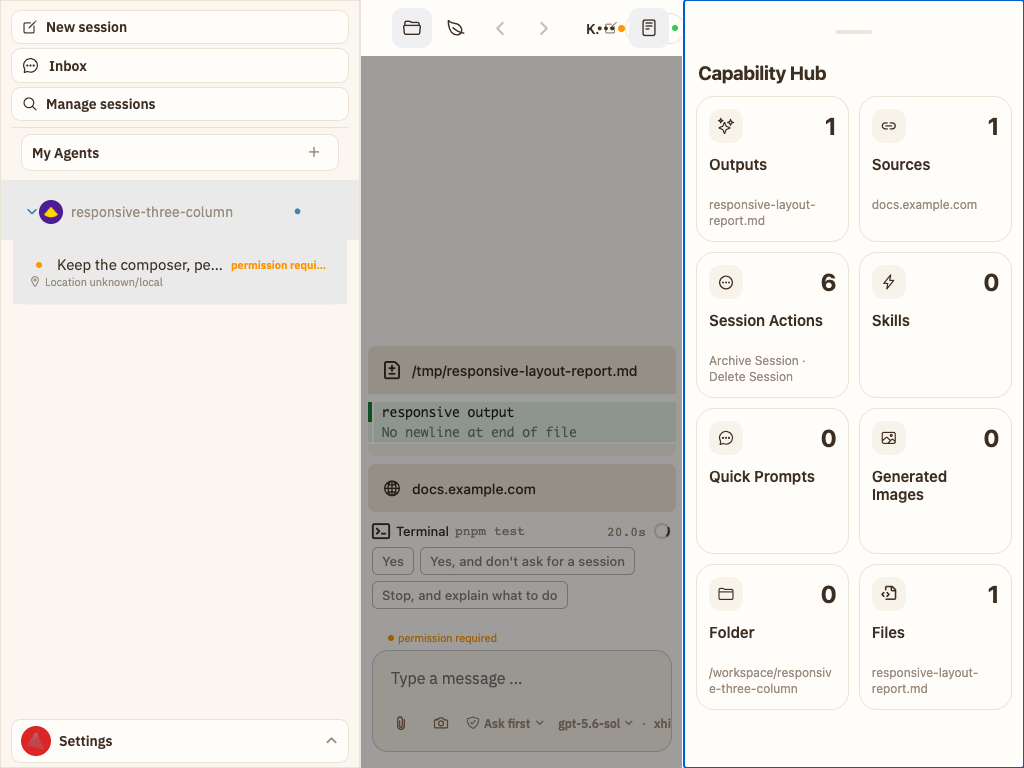
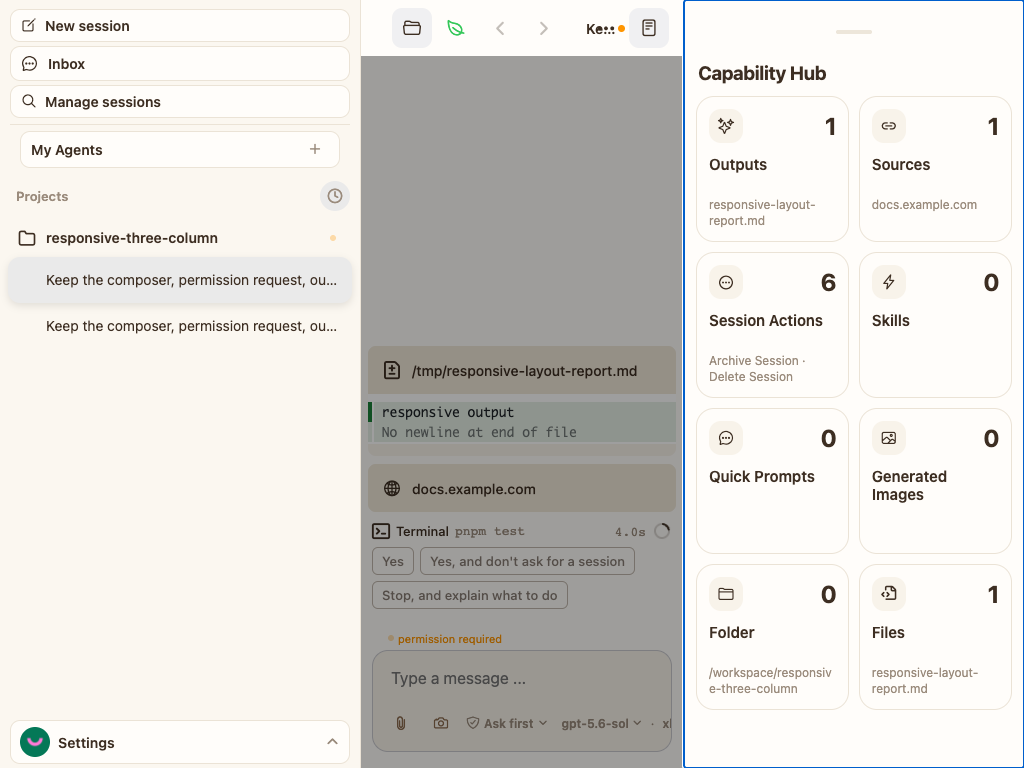
test(app): align responsive evidence with latest navigation
Generated with [Claude Code](https://claude.ai/code)

via [Paws](https://paws-landing-eo4.pages.dev)

diff --git a/packages/happy-app/e2e/session-title-status-evidence.spec.ts b/packages/happy-app/e2e/session-title-status-evidence.spec.ts
@@ -283,10 +283,12 @@ test('T09-02 sidebar distinguishes persisted running and pending sessions, then 
         await expect(permissionRow).toBeVisible();
 
         if (evidencePhase === 'after') {
-            await expect(page.getByTestId(`session-row-status-${runningId}`)).toContainText(/running/i);
-            await expect(page.getByTestId(`session-row-status-${permissionIdSession}`)).toContainText(/permission required/i);
             await expect(runningRow).toHaveAccessibleName(/Persisted running after reconnect, running/i);
             await expect(permissionRow).toHaveAccessibleName(/Waiting for confirmation, permission required/i);
+            await runningRow.hover();
+            await expect(page.getByTestId('session-row-details')).toContainText(/running/i);
+            await permissionRow.hover();
+            await expect(page.getByTestId('session-row-details')).toContainText(/permission required/i);
         } else {
             await expect(page.locator('[data-testid^="session-row-status-"]')).toHaveCount(0);
         }
@@ -311,15 +313,15 @@ test('T09-02 sidebar distinguishes persisted running and pending sessions, then 
             for (const action of permissionActions) {
                 await expect(action).toHaveAttribute('aria-disabled', 'true');
             }
-            await expect(page.getByTestId(`session-row-status-${permissionIdSession}`)).toContainText(/permission required/i);
-            await expect(page.getByTestId(`session-row-status-${runningId}`)).toContainText(/running/i);
+            await expect(permissionRow).toHaveAccessibleName(/Waiting for confirmation, permission required/i);
+            await expect(runningRow).toHaveAccessibleName(/Persisted running after reconnect, running/i);
 
             permissionClient = await connectSession(permissionIdSession, false);
             permissionClient.pulse();
             await expect(page.getByTestId('permission-offline-notice')).toHaveCount(0);
             for (const action of permissionActions) await expect(action).toBeEnabled();
-            await expect(page.getByTestId(`session-row-status-${permissionIdSession}`)).toContainText(/permission required/i);
-            await expect(page.getByTestId(`session-row-status-${runningId}`)).toContainText(/running/i);
+            await expect(permissionRow).toHaveAccessibleName(/Waiting for confirmation, permission required/i);
+            await expect(runningRow).toHaveAccessibleName(/Persisted running after reconnect, running/i);
         } else {
             await expect(page).toHaveURL(new RegExp(`/session/${permissionIdSession}/?$`));
         }

diff --git a/packages/happy-app/e2e/responsive-three-column-evidence.spec.ts b/packages/happy-app/e2e/responsive-three-column-evidence.spec.ts
@@ -332,16 +332,19 @@ function boxesOverlap(left: ElementBox, right: ElementBox): boolean {
 async function expectCriticalLayoutInsideCompactWorkspace(page: Page, drawer: Locator): Promise<void> {
     const host = page.getByTestId('right-swipe-panel-host');
     const leftSidebar = page.getByTestId('desktop-left-sidebar');
+    const desktopAgentChip = page.locator('[data-testid="session-header-chip"]:visible');
     const targets: Array<{ label: string; locator: Locator }> = [
         { label: 'main area', locator: page.getByTestId('right-swipe-panel-main') },
         { label: 'session title', locator: page.locator('[data-testid="session-header-title"]:visible') },
         { label: 'run status', locator: page.locator('[data-testid="session-header-run-status"]:visible') },
-        { label: 'Agent chip', locator: page.locator('[data-testid="session-header-chip"]:visible') },
         { label: 'header More action', locator: page.locator('[data-testid="session-header-more-button"]:visible') },
         { label: 'header right-panel toggle', locator: page.locator('[data-testid="desktop-right-panel-toggle-button"]:visible') },
         { label: 'composer', locator: page.locator('[data-testid="message-composer-content"]:visible') },
         { label: 'permission action', locator: page.locator('[data-testid="permission-approve-button"]:visible') },
     ];
+    // Desktop Web intentionally uses the inline title/status identity from
+    // #289; the Agent chip remains a native/phone affordance only.
+    await expect(desktopAgentChip).toHaveCount(0);
     const hostBox = await host.boundingBox();
     const leftBox = await leftSidebar.boundingBox();
     const drawerBox = await drawer.boundingBox();

diff --git a/packages/happy-app/sources/-session/SessionView.agentSpace.test.tsx b/packages/happy-app/sources/-session/SessionView.agentSpace.test.tsx
@@ -475,10 +475,7 @@ describe('SessionView Agent-space boundary', () => {
         const host = renderer.root.findByType('RightSwipePanelHost');
         expect(host.props.open).toBe(false);
         expect(renderer.root.findByType('ChatHeaderView').props.compactRightSlot).toBe(true);
-        expect(mocks.styleUseVariants).toHaveBeenCalledWith({
-            agentChipDensity: 'regular',
-            headerDensity: 'compact',
-        });
+        expect(renderer.root.findAllByType('SessionHeaderChip')).toHaveLength(0);
         expect(mocks.styleUseVariants).toHaveBeenCalledWith({ headerTitleDensity: 'compact' });
         const toggle = renderer.root.findByProps({ testID: 'desktop-right-panel-toggle-button' });
         expect(toggle.props['aria-expanded']).toBe(false);
@@ -486,10 +483,7 @@ describe('SessionView Agent-space boundary', () => {
         act(() => toggle.props.onPress());
         expect(renderer.root.findByType('RightSwipePanelHost').props.open).toBe(true);
         expect(renderer.root.findByProps({ testID: 'desktop-right-panel-toggle-button' }).props['aria-expanded']).toBe(true);
-        expect(mocks.styleUseVariants).toHaveBeenCalledWith({
-            agentChipDensity: 'constrained',
-            headerDensity: 'compact',
-        });
+        expect(renderer.root.findAllByType('SessionHeaderChip')).toHaveLength(0);
 
         expect(mocks.globalRightSidebarShortcut).toEqual(expect.any(Function));
         act(() => mocks.globalRightSidebarShortcut?.());

diff --git a/environments/environments.ts b/environments/environments.ts
@@ -384,8 +384,21 @@ export async function startEnvironmentServices(name: string): Promise<void> {
     writePidFile(envDir, "web", webPid);
 
     try {
+        // A listening Metro socket does not mean the first Web bundle is
+        // ready. Production-like evidence runs clear the cache, so warm the
+        // document before Playwright starts its per-test five-second waits.
+        const waitForWeb = process.env.HAPPY_E2E_WEB_NO_DEV === "1"
+            ? async () => {
+                try {
+                    const response = await fetch(`http://localhost:${config.expoPort}/`);
+                    return response.ok;
+                } catch {
+                    return false;
+                }
+            }
+            : () => isPortInUse(config.expoPort);
         // Metro 首次构建依赖较多，冷启动在开发机上可能超过 30 秒。
-        await waitFor(() => isPortInUse(config.expoPort), 120_000, "web");
+        await waitFor(waitForWeb, 120_000, "web");
     } catch {
         throw new Error(`Web failed to start. Check logs: ${webLogFile}`);
     }
